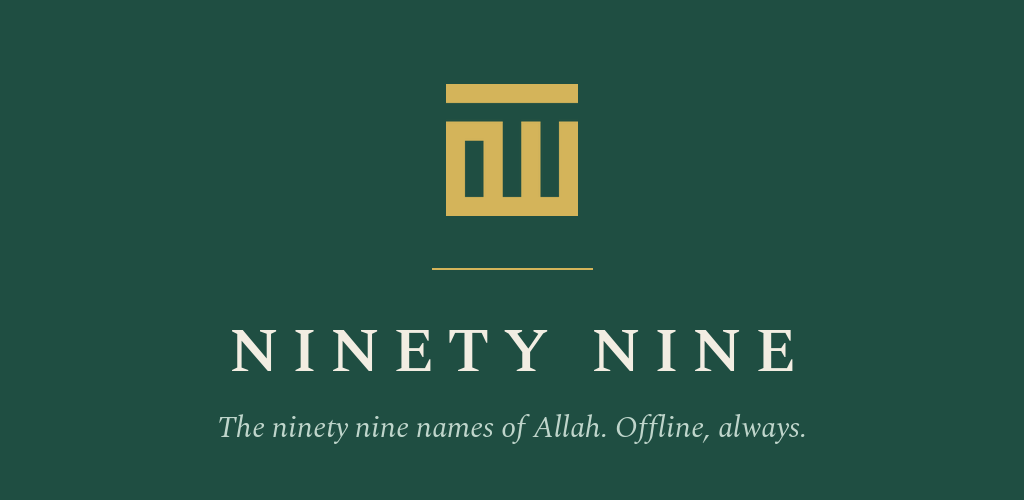
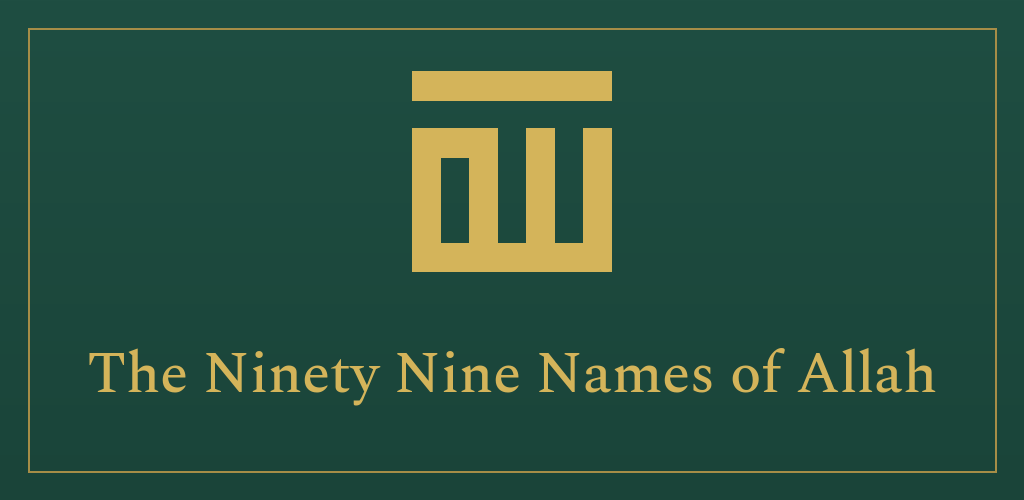
fresh feature graphic and the ready-to-paste Play listing copy
The feature graphic was three releases stale and still showed the old, larger
icon mark; it is regenerated in the app's emerald-and-gold identity. play-listing.md
holds the copy to paste into the Play Console: the 30-character title, a 79-char
short description, the full description, version 0.1 release notes, category and
data-safety facts, and a ready-to-host privacy policy.

diff --git a/docs/play-listing.md b/docs/play-listing.md
@@ -1,0 +1,91 @@
+# Play Store listing — copy these in
+
+Prepared for the first release of ninetynine. Everything below is ready to paste
+into the Play Console. The **app name is exactly 30 characters** (Play's limit),
+so do not add a word or a stray space.
+
+---
+
+## App name (Play listing title)
+
+```
+The Ninety Nine Names of Allah
+```
+
+## Short description (≤ 80 characters — 79 here)
+
+```
+Learn and memorize the 99 Names of Allah — Arabic, transliteration and meanings.
+```
+
+## Full description
+
+```
+The Ninety Nine Names of Allah is a calm, book-like companion for learning and
+memorising the beautiful Names of Allah (Asma'ul Husna).
+
+Each of the 99 Names is presented carefully:
+
+• The Name in clear Arabic, set in the Uthmanic HAFS script of the Madinah Mushaf
+• A faithful transliteration
+• Its meaning in English, based on the lecture of Sheikh Ibn Uthaymeen (Rahimahullah)
+
+Learn at your own pace:
+
+• A Name of the Day, with a home-screen widget and an optional daily notification
+• Flashcards to recall the meaning, and a ten-question quiz to test yourself
+• Mark the Names you have learned and watch your progress
+• Keep the Names that matter to you in Bookmarks
+
+Made to be read:
+
+• Light, dark and pure-black (AMOLED) themes
+• Adjustable text size
+• Offline, private and free — no ads, no tracking, no account
+
+Free and open source. May Allah make us among those who learn, memorise,
+understand and act upon His beautiful Names.
+```
+
+## What's new (version 0.1)
+
+```
+First release. All 99 Names with Arabic, transliteration and meaning; a Name of
+the Day with a home-screen widget and an optional daily notification;
+flashcards and a quiz; bookmarks; light, dark and AMOLED themes; adjustable
+text size.
+```
+
+## Category, content & data
+
+- **Category:** Education (or Books & Reference — either fits)
+- **Ads:** None
+- **In-app purchases:** None
+- **Data safety:** "No data collected" — the app has **no INTERNET permission**
+  in its manifest, so this is provable and safe to declare.
+- **Content rating (IARC):** answer the questionnaire honestly (educational /
+  devotional content; no violence, sexual, or mature content).
+
+## Privacy policy
+
+The app collects no data, so you can declare "the app does not collect any
+data" in the form. If Play asks for a privacy policy URL anyway, publish this
+(you can host it on your blog or a GitHub Page) and paste the link:
+
+```
+# Privacy Policy
+
+The Ninety Nine Names of Allah does not collect, store, transmit, or share any
+personal data.
+
+The app works fully offline. It has no network access, no advertising, no
+analytics, no account system, and no third-party services. Everything you do in
+the app — the Names you bookmark, mark as learned, your theme and text-size
+preferences — is stored only on your own device and never leaves it.
+
+If you have any questions, contact muntasim.haque@gmail.com.
+```
+
+## Contact / support
+
+- Developer email: `muntasim.haque@gmail.com`
